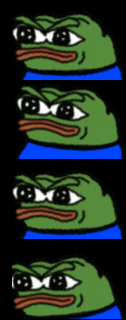
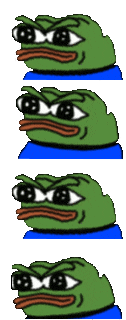
Updated sprite to be transparent

diff --git a/public/styles.css b/public/styles.css
@@ -4,7 +4,7 @@
     justify-content: center;
     align-items: center;
     height: 100vh;
-    background-color: white;
+    background-color: transparent;
 }
 
 #sprite {
